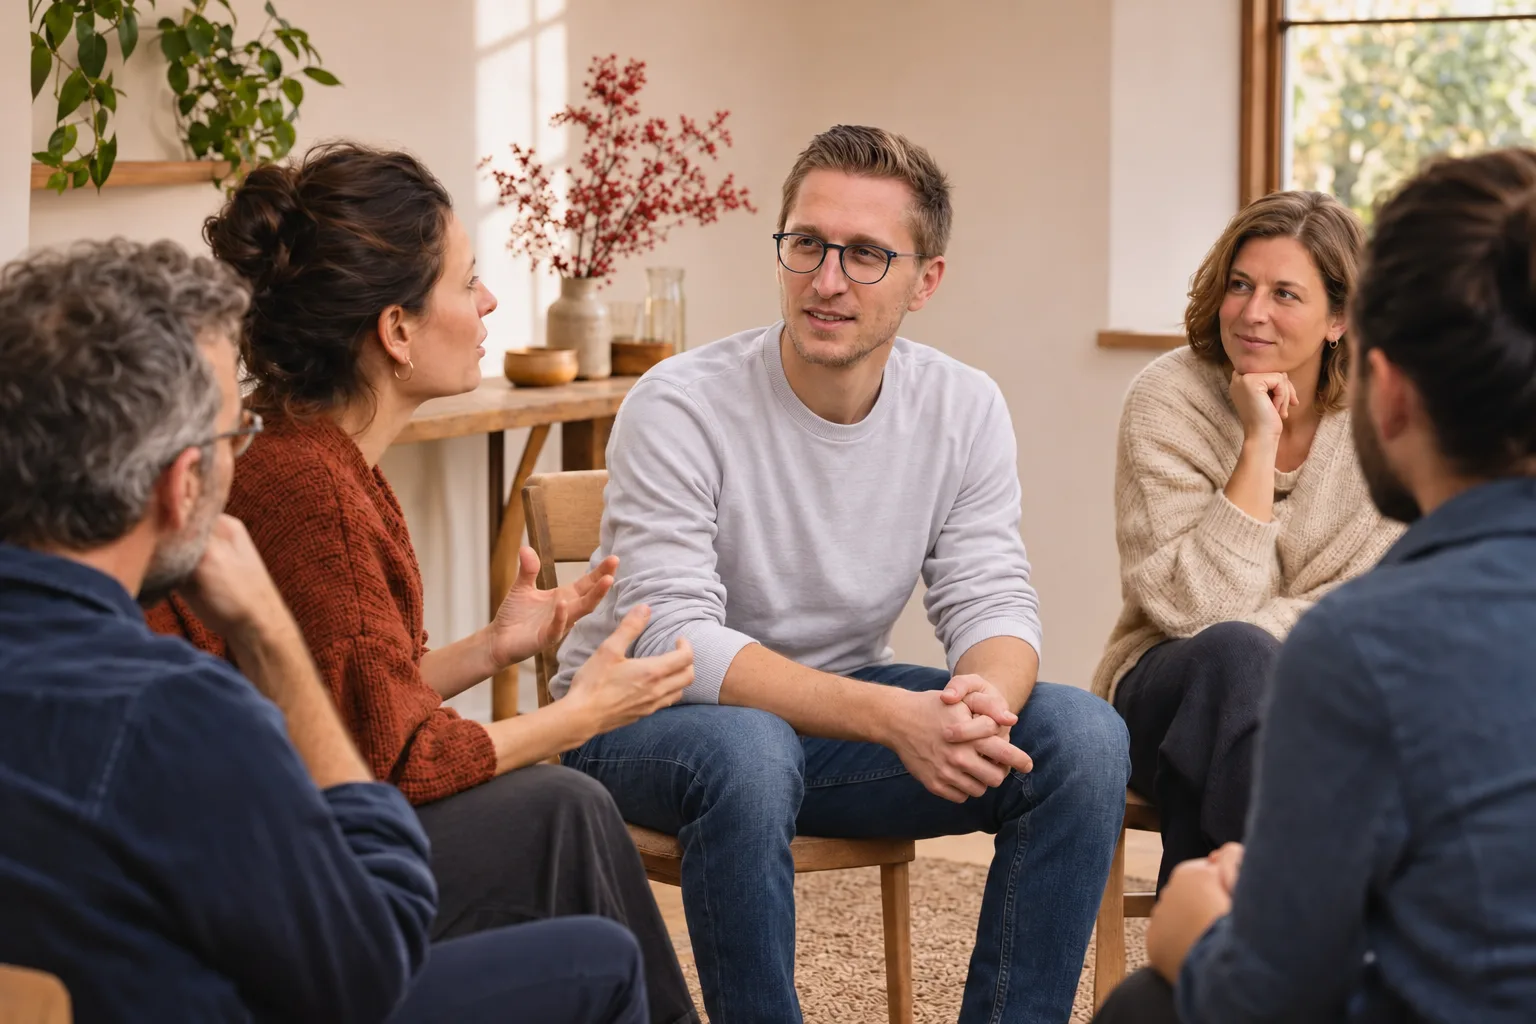
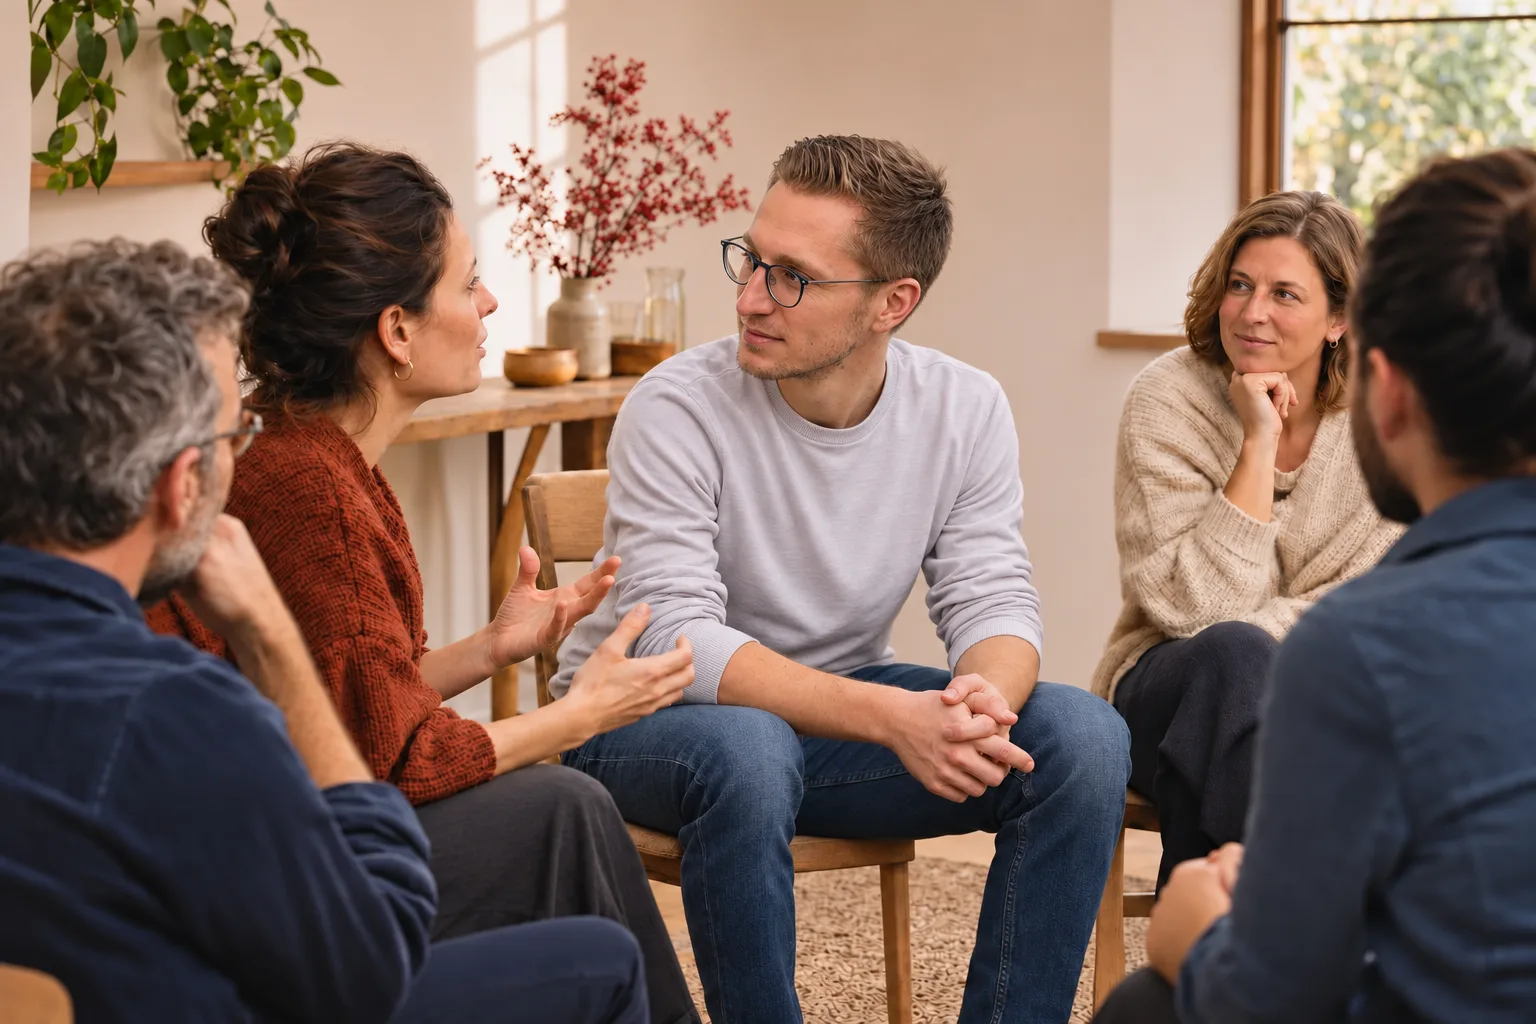
fix: direct facilitator gaze toward the speaker

diff --git a/de/teams-offsites/index.html b/de/teams-offsites/index.html
@@ -30,7 +30,7 @@
   <link rel="icon" type="image/svg+xml" href="/brand/max-sutter/web-icons/favicon.svg" sizes="any">
   <link rel="apple-touch-icon" href="/brand/max-sutter/web-icons/apple-touch-icon.png" sizes="180x180">
   <link rel="preload" href="../../assets/fonts/manrope.woff2" as="font" type="font/woff2" crossorigin>
-  <link rel="preload" href="../../assets/images/team-facilitation-illustration.webp?v=20261107-3" as="image" type="image/webp" fetchpriority="high">
+  <link rel="preload" href="../../assets/images/team-facilitation-illustration.webp?v=20261107-5" as="image" type="image/webp" fetchpriority="high">
   <script>document.documentElement.classList.add('js');</script>
   <link rel="stylesheet" href="../../assets/site.css?v=20261107-1">
   <script type="application/ld+json">
@@ -116,7 +116,7 @@
   <main id="main" tabindex="-1">
     <section class="team-hero section-space" id="hero" aria-labelledby="hero-title">
       <figure class="team-hero-media">
-        <img src="../../assets/images/team-facilitation-illustration.webp?v=20261107-3" width="1536" height="1024" alt="KI-generierte Illustration: Max Sutter im Gespräch mit einem Führungsteam" fetchpriority="high" decoding="async">
+        <img src="../../assets/images/team-facilitation-illustration.webp?v=20261107-5" width="1536" height="1024" alt="KI-generierte Illustration: Max Sutter im Gespräch mit einem Führungsteam" fetchpriority="high" decoding="async">
         <figcaption>KI-generierte Illustration</figcaption>
       </figure>
       <div class="container">

diff --git a/team-offsites/index.html b/team-offsites/index.html
@@ -30,7 +30,7 @@
   <link rel="icon" type="image/svg+xml" href="/brand/max-sutter/web-icons/favicon.svg" sizes="any">
   <link rel="apple-touch-icon" href="/brand/max-sutter/web-icons/apple-touch-icon.png" sizes="180x180">
   <link rel="preload" href="../assets/fonts/manrope.woff2" as="font" type="font/woff2" crossorigin>
-  <link rel="preload" href="../assets/images/team-facilitation-illustration.webp?v=20261107-3" as="image" type="image/webp" fetchpriority="high">
+  <link rel="preload" href="../assets/images/team-facilitation-illustration.webp?v=20261107-5" as="image" type="image/webp" fetchpriority="high">
   <script>document.documentElement.classList.add('js');</script>
   <link rel="stylesheet" href="../assets/site.css?v=20261107-1">
   <script type="application/ld+json">
@@ -116,7 +116,7 @@
   <main id="main" tabindex="-1">
     <section class="team-hero section-space" id="hero" aria-labelledby="hero-title">
       <figure class="team-hero-media">
-        <img src="../assets/images/team-facilitation-illustration.webp?v=20261107-3" width="1536" height="1024" alt="AI-generated illustration of Max Sutter in conversation with a leadership team" fetchpriority="high" decoding="async">
+        <img src="../assets/images/team-facilitation-illustration.webp?v=20261107-5" width="1536" height="1024" alt="AI-generated illustration of Max Sutter in conversation with a leadership team" fetchpriority="high" decoding="async">
         <figcaption>AI-generated illustration</figcaption>
       </figure>
       <div class="container">
